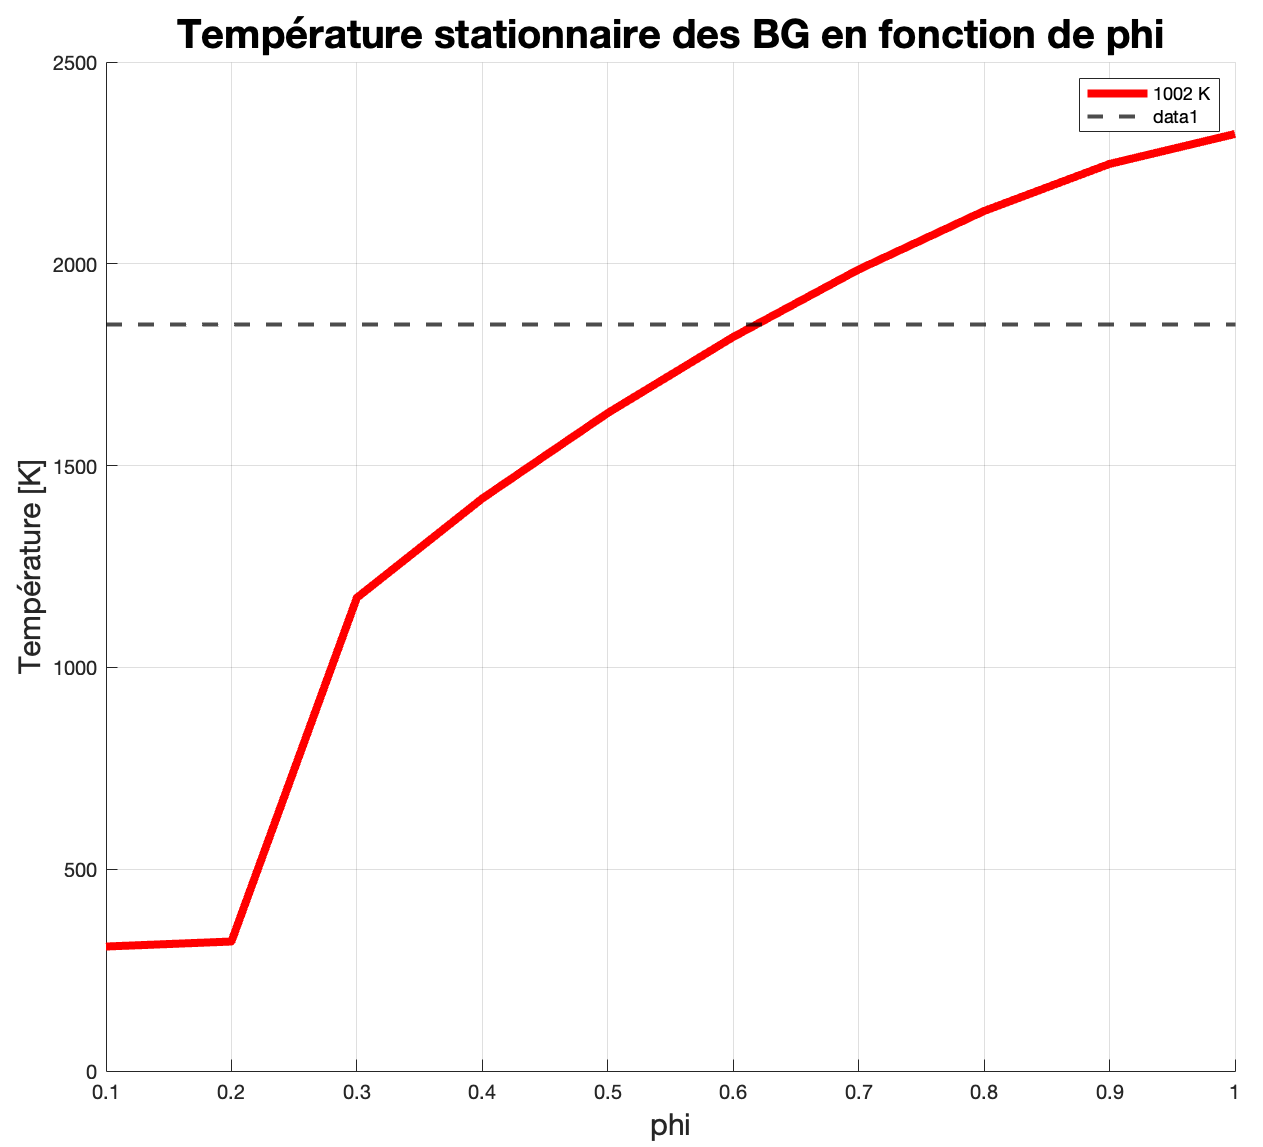
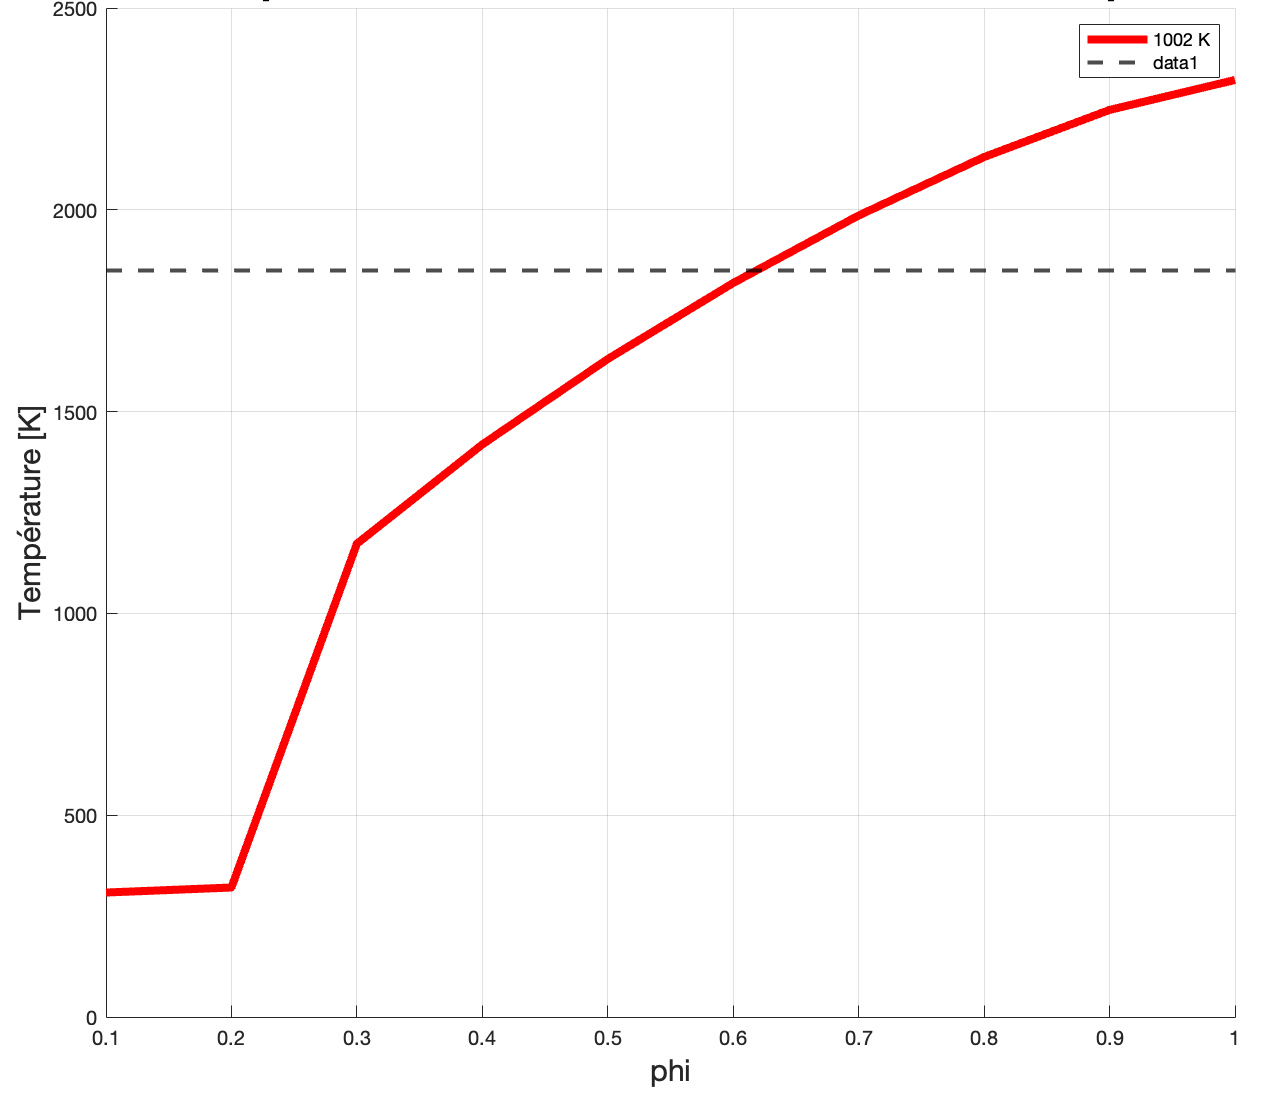
test

diff --git a/resume.html b/resume.html
@@ -8,7 +8,9 @@ layout: home
 
     <div class="row">
       <div class="col">
-        <h1 class="display-4 text-center">{{ site.data.bio.basics.name }}</h1>
+        <!-- <h1 class="display-4 text-center">{{ site.data.bio.basics.name }}</h1> -->
+        <h1 class="display-4 text-center">Resume</h1>
+
       </div>
     </div>
 

diff --git a/projects/Milieux_reactifs.md b/projects/Milieux_reactifs.md
@@ -31,7 +31,7 @@ The ignition temperature, or Tspark, was found iteratively, and the operating co
 </p>
 
 <p align="center">
-  <img src="../img/Milieux_reactifs/check_phi.png" alt="Temperature at steady state as a function of equivalence ratio" style="max-width: 750px; margin: 1rem auto; display:block;">
+  <img src="../img/Milieux_reactifs/check_phi.png" alt="Temperature at steady state as a function of equivalence ratio" style="max-width: 600px; margin: 1rem auto; display:block;">
   <span style="font-size: 0.9rem; color: gray;">Temperature at steady state as a function of equivalence ratio.</span>
 </p>
 
@@ -52,7 +52,7 @@ Subsequent analyses focused on the evolution of gas temperature over time for va
 </p>
 
 <p align="center">
-  <img src="../img/Milieux_reactifs/5000s_vitesse_raccourci.png" alt="Temperature evolution for different gas velocities" style="max-width: 850px; margin: 1rem auto; display:block;">
+  <img src="../img/Milieux_reactifs/5000s_vitesse_raccourci.png" alt="Temperature evolution for different gas velocities" style="max-width: 800px; margin: 1rem auto; display:block;">
   <span style="font-size: 0.9rem; color: gray;">Temperature evolution for different gas velocities.</span>
 </p>
 
@@ -63,7 +63,7 @@ The plasma-assisted case achieved full ignition at gas velocities up to 4.3 m/s,
 
 
 <p align="center">
-  <img src="../img/Milieux_reactifs/fin4.png" alt="Evolution of mass fractions and temperature" style="max-width: 900px; margin: 1rem auto; display:block;">
+  <img src="../img/Milieux_reactifs/fin4.png" alt="Evolution of mass fractions and temperature" style="max-width: 750px; margin: 1rem auto; display:block;">
   <span style="font-size: 0.9rem; color: gray;">Evolution of mass fractions and temperature during plasma-assisted combustion.</span>
 </p>
 

diff --git a/projects/carrie.md b/projects/carrie.md
@@ -31,6 +31,7 @@ The prototype successfully demonstrated reliable user tracking and smooth naviga
 
 <p align="center">
   <img src="../img/carrie/robot.jpg" alt="Final CarriE prototype" style="max-width: 800px; margin: 1rem auto; display:block;">
+  <span style="font-size: 0.9rem; color: gray;">Final CarriE prototype.</span>
 </p>
 
 <p>
@@ -41,6 +42,7 @@ The onboard system integrates a Raspberry Pi 5, an Arduino Uno, and several sens
 
 <p align="center">
   <img src="../img/carrie/WIRING.png" alt="Wiring diagram of the CarriE robot system" style="max-width: 800px; margin: 1rem auto; display:block;">
+  <span style="font-size: 0.9rem; color: gray;">Wiring diagram of the CarriE robot system.</span>
 </p>
 
 <p>
@@ -50,6 +52,7 @@ The early prototype shown below was used to pitch the project, test the code, an
 
 <p align="center">
   <img src="../img/carrie/first.png" alt="Early prototype used for control testing" style="max-width: 700px; margin: 1rem auto; display:block;">
+  <span style="font-size: 0.9rem; color: gray;">Early prototype used for control testing.</span>
 </p>
 
 <p>
@@ -61,6 +64,7 @@ The Raspberry Pi interprets this information and sends commands to the Arduino t
 
 <p align="center">
   <img src="../img/carrie/comm.png" alt="Communication architecture between camera, Raspberry Pi, and computer" style="max-width: 650px; margin: 1rem auto; display:block;">
+  <span style="font-size: 0.9rem; color: gray;">Communication architecture between camera, Raspberry Pi, and computer.</span>
 </p>
 
 <p>

diff --git a/projects/droneload.md b/projects/droneload.md
@@ -11,7 +11,7 @@ labels:
   - Robotics
   - Computer vision
   - Python
-summary: "Autonomous drone"
+summary: "Development of an autonomous quadcopter for object detection, navigation, and delivery tasks."
 period: CentraleSupélec
 ---
 
